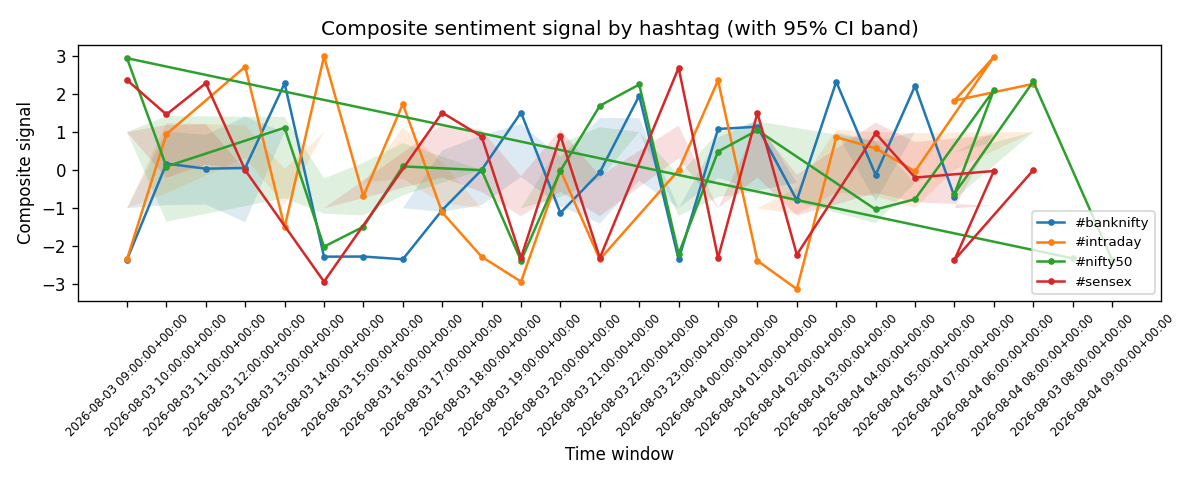
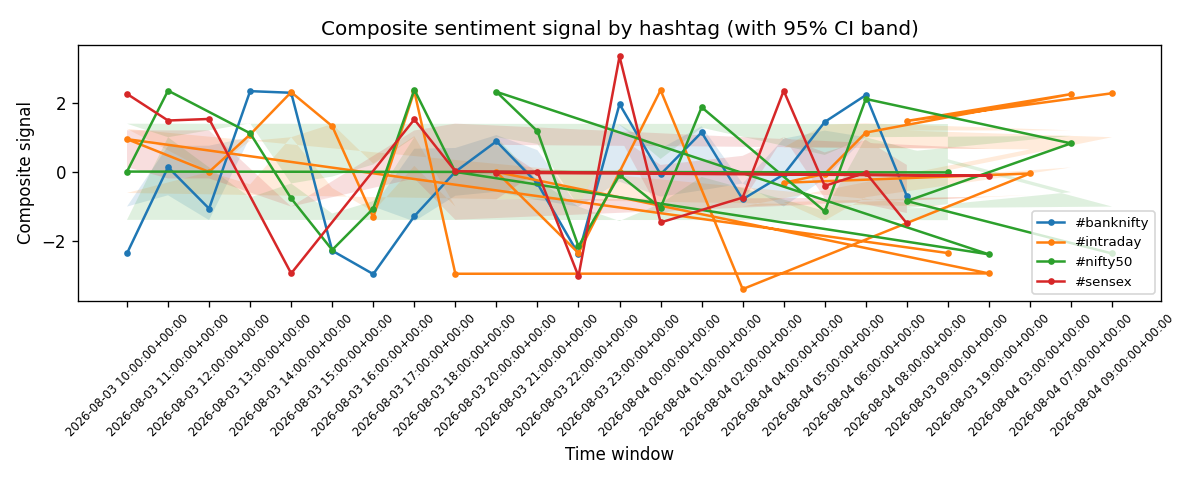
Fix Parquet storage: schema-safe append merge, disable hive partition auto-discovery on read

diff --git a/src/processing/storage.py b/src/processing/storage.py
@@ -5,6 +5,13 @@ engagement ints even better) and predicate pushdown for downstream
 analysis (e.g. "read only 2026-08-04/nifty50" without touching other
 partitions) -- important once volume grows past what fits comfortably
 in memory (see the 10x scalability note in docs/TECHNICAL_APPROACH.md).
+
+All reads pass ``partitioning=None``: pyarrow's default ("hive") treats
+any "key=value" path segment -- including our "date=2026-08-04" directory
+name -- as a partition column and silently injects it back as a field on
+read, even for a single explicit file path. Left on, every read grows an
+extra phantom "date" column that isn't in ``SCHEMA`` and breaks strict
+schema comparisons downstream.
 """
 from dataclasses import asdict
 from pathlib import Path
@@ -50,19 +57,27 @@ class ParquetStorage:
             return None
 
         df = pd.DataFrame([asdict(t) for t in cleaned_tweets])
-        table = pa.Table.from_pandas(df, schema=SCHEMA, preserve_index=False)
 
         partition_dir = self.base_dir / f"date={partition_date}"
         partition_dir.mkdir(parents=True, exist_ok=True)
         out_path = partition_dir / "tweets.parquet"
 
         if out_path.exists():
-            existing = pq.read_table(out_path)
-            table = pa.concat_tables([existing, table])
-            # dedup on write in case of overlapping runs for the same day
-            df_combined = table.to_pandas().drop_duplicates(subset="tweet_id")
-            table = pa.Table.from_pandas(df_combined, schema=SCHEMA, preserve_index=False)
+            # Merge as pandas DataFrames, not pyarrow Tables: Parquet's
+            # on-disk list encoding renames the inner field of list columns
+            # (e.g. "item" -> "element") on round-trip, so a freshly built
+            # in-memory Table and one just read back from disk can carry
+            # subtly different schemas even though the data is identical.
+            # pa.concat_tables() enforces exact schema equality and throws
+            # on that mismatch; going through pandas + a single
+            # from_pandas(..., schema=SCHEMA) rebuild sidesteps it and
+            # re-normalizes to our canonical schema either way.
+            existing_df = pq.read_table(out_path, partitioning=None).to_pandas()
+            df = pd.concat([existing_df, df], ignore_index=True)
+            df = df.drop_duplicates(subset="tweet_id")
 
+        df = df[[f.name for f in SCHEMA]]  # drop any stray columns, enforce order
+        table = pa.Table.from_pandas(df, schema=SCHEMA, preserve_index=False)
         pq.write_table(table, out_path, compression="snappy")
         logger.info("Wrote %d rows to %s", table.num_rows, out_path)
         return out_path
@@ -71,11 +86,11 @@ class ParquetStorage:
         path = self.base_dir / f"date={partition_date}" / "tweets.parquet"
         if not path.exists():
             return pd.DataFrame()
-        return pq.read_table(path).to_pandas()
+        return pq.read_table(path, partitioning=None).to_pandas()
 
     def read_all(self) -> pd.DataFrame:
         parts = list(self.base_dir.glob("date=*/tweets.parquet"))
         if not parts:
             return pd.DataFrame()
-        tables = [pq.read_table(p) for p in parts]
+        tables = [pq.read_table(p, partitioning=None) for p in parts]
         return pa.concat_tables(tables).to_pandas()
